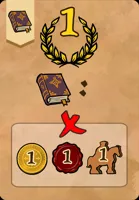
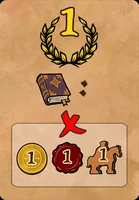
Rectors: move immediate Book draw from 2a to 2b, new tile art
Claude-Session: https://claude.ai/code/session_01SHozX5uoHGRuhfGKpzG4bC

diff --git a/i18n.js b/i18n.js
@@ -20,7 +20,7 @@ const FR={
  CE_heidelberg:'1 pièce ou 1 influence par personnage Bronze',CE_vienna:'2 pièces ou 2 influence par personnage Argent',CE_praha:'3 pièces ou 3 influence par personnage Or',
  CE_thessaloniki:'active tous tes Émérites',CE_constantinople:'rétrograde un Émérite pour 1 PV',CE_sale:'défausse un de tes Étudiants',CE_meknes:'active la capacité d\'un de tes Étudiants',CE_fes:'recrute n\'importe quel Étudiant',
  R_1a:'Recruter un Étudiant avec une œuvre d\'art : +1 pièce et +1 influence',R_1b:'Recruter un Étudiant Bronze : +3 déplacements',
- R_2a:'Pioche 1 Livre. Défausser un Livre donne 1 pièce + 1 influence + 1 déplacement à la place de son effet',R_2b:'Tu peux dépenser des pièces comme de l\'influence et inversement',
+ R_2a:'Défausser un Livre donne 1 pièce + 1 influence + 1 déplacement à la place de son effet',R_2b:'Pioche 1 Livre. Tu peux dépenser des pièces comme de l\'influence et inversement',
  R_3a:'Atteindre une Ville : pioche 1 Livre',R_3b:'Compte comme un personnage supplémentaire du type et du niveau de ton choix, à tout moment selon tes besoins',
  R_4a:'Promotion : coût en pièces réduit de 2',R_4b:'Recrutement : coût en influence réduit de 2',
  O_A1:'2 personnages de chaque type',O_A2:'6 personnages du même type',O_B1:'1 parcours complété + 6 pièces + 6 influence',O_B2:'2 parcours complétés',
@@ -105,7 +105,7 @@ const EN={
  CE_heidelberg:'1 coin or 1 influence per Bronze character',CE_vienna:'2 coins or 2 influence per Silver character',CE_praha:'3 coins or 3 influence per Gold character',
  CE_thessaloniki:'activate all your Emeritus',CE_constantinople:'demote an Emeritus for 1 VP',CE_sale:'discard one of your Students',CE_meknes:'activate the ability of one of your Students',CE_fes:'hire any Student',
  R_1a:'Hire a Student with a Work of Art: +1 coin and +1 influence',R_1b:'Hire a Bronze Student: +3 movements',
- R_2a:'Draw 1 Book. Discarding a Book gives 1 coin + 1 influence + 1 movement instead of its effect',R_2b:'You may spend coins as influence and vice versa',
+ R_2a:'Discarding a Book gives 1 coin + 1 influence + 1 movement instead of its effect',R_2b:'Draw 1 Book. You may spend coins as influence and vice versa',
  R_3a:'Reach a City: draw 1 Book',R_3b:'Counts as an extra character of the type and level of your choice, changing at any time as you need',
  R_4a:'Promotion: coin cost reduced by 2',R_4b:'Hiring: influence cost reduced by 2',
  O_A1:'2 characters of each type',O_A2:'6 characters of the same type',O_B1:'1 completed journey + 6 coins + 6 influence',O_B2:'2 completed journeys',
@@ -185,7 +185,7 @@ const IT={
  CE_heidelberg:'1 moneta o 1 influenza per personaggio di Bronzo',CE_vienna:'2 monete o 2 influenza per personaggio d\'Argento',CE_praha:'3 monete o 3 influenza per personaggio d\'Oro',
  CE_thessaloniki:'attiva tutti i tuoi Emeriti',CE_constantinople:'retrocedi un Emerito per 1 PV',CE_sale:'scarta uno dei tuoi Studenti',CE_meknes:'attiva l\'abilità di uno dei tuoi Studenti',CE_fes:'assumi uno Studente qualsiasi',
  R_1a:'Assumi uno Studente con un\'Opera d\'arte: +1 moneta e +1 influenza',R_1b:'Assumi uno Studente di Bronzo: +3 movimenti',
- R_2a:'Pesca 1 Libro. Scartare un Libro dà 1 moneta + 1 influenza + 1 movimento invece del suo effetto',R_2b:'Puoi spendere monete come influenza e viceversa',
+ R_2a:'Scartare un Libro dà 1 moneta + 1 influenza + 1 movimento invece del suo effetto',R_2b:'Pesca 1 Libro. Puoi spendere monete come influenza e viceversa',
  R_3a:'Raggiungi una Città: pesca 1 Libro',R_3b:'Conta come un personaggio extra del tipo e del livello che preferisci, in qualsiasi momento secondo le necessità',
  R_4a:'Promozione: costo in monete ridotto di 2',R_4b:'Assunzione: costo in influenza ridotto di 2',
  O_A1:'2 personaggi di ogni tipo',O_A2:'6 personaggi dello stesso tipo',O_B1:'1 viaggio completato + 6 monete + 6 influenza',O_B2:'2 viaggi completati',

diff --git a/data.js b/data.js
@@ -127,8 +127,8 @@ const books=[
 const rectors=[
  {id:'1a',txt:'Embaucher un Étudiant avec une œuvre d\'art : +1 pièce et +1 influence'},
  {id:'1b',txt:'Embaucher un Étudiant Bronze : +3 déplacements'},
- {id:'2a',txt:'Pioche 1 Livre. Défausser un Livre donne 1 pièce + 1 influence + 1 déplacement à la place de son effet'},
- {id:'2b',txt:'Tu peux dépenser des pièces comme de l\'influence et inversement'},
+ {id:'2a',txt:'Défausser un Livre donne 1 pièce + 1 influence + 1 déplacement à la place de son effet'},
+ {id:'2b',txt:'Pioche 1 Livre. Tu peux dépenser des pièces comme de l\'influence et inversement'},
  {id:'3a',txt:'Atteindre une Ville : pioche 1 Livre'},
  {id:'3b',txt:'Compte comme un personnage supplémentaire du type et du niveau de ton choix'},
  {id:'4a',txt:'Promotion : coût en pièces réduit de 2'},

diff --git a/engine.js b/engine.js
@@ -431,7 +431,7 @@ function doPromo(s,p,to,idx,free){
   if(to==='R'){ const co=pl.profs[idx]; const ty=CARD[co.id].type; const tile=s.rectSlots[ty]; if(!tile) return;
     if(!free) pay(pl,Math.max(0,idx+1-red),8); pl.profs.splice(idx,1); pl.rector={card:co,tile,type:ty}; s.rectSlots[ty]=null;
     log(s,M('log_rector',pl.name,cn(co.id),M('R_'+tile)));
-    if(tile==='2a') drawBooks(s,p,1);
+    if(tile==='2b') drawBooks(s,p,1);
   }
 }
 
